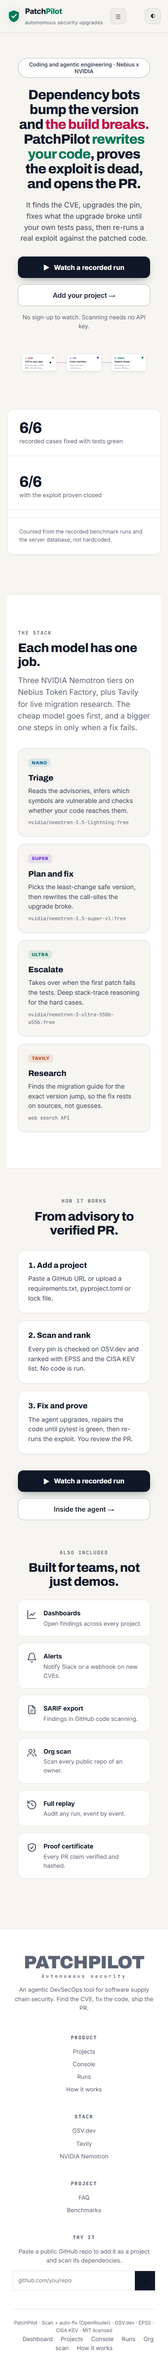
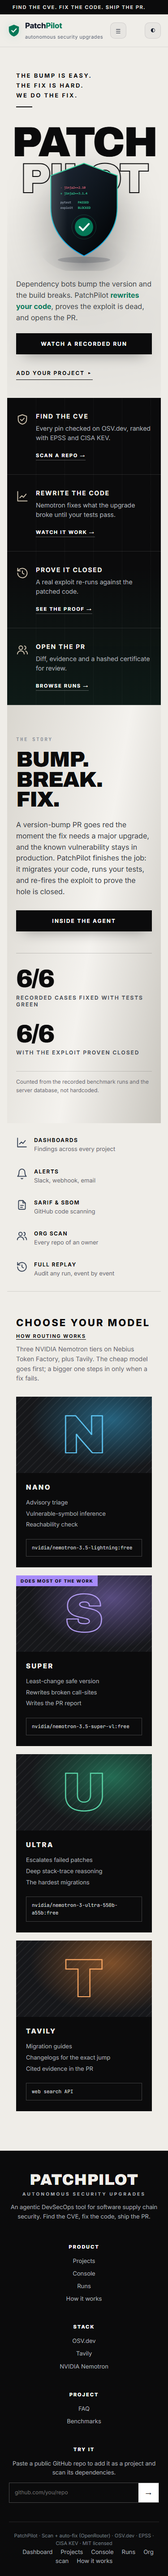
Landing: cinematic editorial redesign (giant wordmark with shield emblem, black feature band, Bump/Break/Fix story with live numbers, perks strip, model tiers as editions, black footer)

diff --git a/web/landing.css b/web/landing.css
@@ -1,97 +1,126 @@
-/* Landing: premium light layout. Colours come from tokens in style.css. */
-body { background: var(--bg); color: var(--text); }
+/* Landing: cinematic editorial layout. Monochrome ink on warm paper, black bands, one emerald accent. */
+body.lp { --ink: #0b0b0c; --paper: #efede8; --paper-2: #e4e1da; --fog: #8a8f98; background: var(--paper); color: var(--ink); }
 .bg-grid, .bg-glow { display: none; }
-.over { font: 700 11px var(--mono); letter-spacing: .16em; text-transform: uppercase; color: var(--muted); }
-.lp-wrap { max-width: 1120px; margin: 0 auto; padding: 88px 24px 0; }
-.lp-wrap h2, .band h2 { font: 800 clamp(28px, 3.6vw, 40px)/1.1 Archivo, Inter, sans-serif; letter-spacing: -.025em; text-transform: none; color: var(--text); margin: 10px 0 12px; }
-.sub { color: var(--muted); font-size: 17px; max-width: 62ch; margin: 0 0 32px; }
+.lp .topbar { background: color-mix(in srgb, var(--paper) 82%, transparent); }
+.over { font: 700 11px var(--mono); letter-spacing: .22em; text-transform: uppercase; color: var(--fog); }
 
-.lp-hero { position: relative; isolation: isolate; max-width: none; margin: 0 auto; padding: 88px 24px 32px; text-align: center; }
-.lp-hero::before { content: ""; position: absolute; inset: 0; z-index: -1; pointer-events: none;
-  background-image: linear-gradient(var(--grid) 1px, transparent 1px), linear-gradient(90deg, var(--grid) 1px, transparent 1px);
-  background-size: 44px 44px; -webkit-mask-image: radial-gradient(ellipse 70% 60% at 50% 30%, #000 30%, transparent 75%); mask-image: radial-gradient(ellipse 70% 60% at 50% 30%, #000 30%, transparent 75%); }
-.lp-hero::after { content: ""; position: absolute; inset: -40px 0 auto; height: 620px; z-index: -2; pointer-events: none;
-  background: radial-gradient(520px 280px at 30% 25%, var(--glow), transparent 70%), radial-gradient(480px 260px at 72% 20%, color-mix(in srgb, var(--super) 13%, transparent), transparent 70%); }
-.hero-in { max-width: 1040px; margin: 0 auto; }
-.eyebrow-pill { display: inline-flex; align-items: center; gap: 8px; font: 600 12px Inter; color: var(--text-2); padding: 6px 14px 6px 10px; border: 1px solid var(--line); border-radius: 999px; background: var(--surface-solid); box-shadow: 0 1px 2px rgba(16,24,40,.06); }
-.eyebrow-pill::before { content: ""; width: 8px; height: 8px; border-radius: 50%; background: var(--accent); box-shadow: 0 0 0 4px var(--glow); }
-.lp-hero h1 { font: 800 clamp(32px, 5vw, 60px)/1.04 Archivo, Inter, sans-serif; letter-spacing: -.035em; margin: 26px auto 22px; max-width: 18em; text-transform: none; text-wrap: balance; }
-.u-red { color: var(--bad); text-decoration: line-through; text-decoration-thickness: .06em; text-decoration-color: color-mix(in srgb, var(--bad) 45%, transparent); }
-.u-green { background: linear-gradient(90deg, var(--accent), var(--nano)); -webkit-background-clip: text; background-clip: text; color: transparent; }
-.lede { font-size: clamp(16px, 1.6vw, 19px); color: var(--text-2); max-width: 46em; margin: 0 auto 28px; }
-.cta-row { display: flex; gap: 14px; justify-content: center; align-items: center; flex-wrap: wrap; }
-.btn-primary { display: inline-flex; align-items: center; gap: 10px; background: var(--text); color: #fff; text-decoration: none; padding: 14px 24px; border-radius: 12px; font: 700 15px Inter; box-shadow: 0 1px 0 rgba(255,255,255,.2) inset, 0 8px 20px -8px rgba(16,24,40,.5); transition: transform .15s, box-shadow .15s, background .15s; }
-.btn-primary:hover { background: #1d2939; transform: translateY(-1px); box-shadow: 0 12px 24px -10px rgba(16,24,40,.55); }
-.btn-primary:active { transform: translateY(1px); }
-.btn-quiet { color: var(--text); text-decoration: none; font: 600 15px Inter; padding: 14px 18px; border-radius: 12px; border: 1px solid var(--line-strong); background: var(--surface-solid); transition: border-color .15s, transform .15s; }
-.btn-quiet:hover { border-color: var(--text); transform: translateY(-1px); }
-.btn-primary:focus-visible, .btn-quiet:focus-visible, .grid6 a:focus-visible { outline: 3px solid var(--info); outline-offset: 3px; }
-.fine { color: var(--muted); font-size: 13px; margin: 14px 0 0; }
-.hero-vis { display: block; width: 100%; max-width: 960px; height: auto; margin: 40px auto 0; }
+.ribbon { display: flex; justify-content: space-between; gap: 16px; background: var(--ink); color: #e7e5e0; font: 600 11px Inter; letter-spacing: .14em; text-transform: uppercase; padding: 9px 28px; }
 
-.stats { max-width: 1072px; margin: 48px auto 0; padding: 0 24px; display: grid; grid-template-columns: repeat(var(--n, 3), 1fr); gap: 16px; }
-.stats[hidden] { display: none; }
-.stats > div { position: relative; padding: 26px 28px; border: 1px solid var(--line); border-radius: 18px; background: var(--surface-solid); box-shadow: 0 1px 2px rgba(16,24,40,.04), 0 16px 32px -24px rgba(16,24,40,.25); overflow: hidden; }
-.stats > div::before { content: ""; position: absolute; inset: 0 0 auto; height: 3px; background: linear-gradient(90deg, var(--accent), var(--nano)); }
-.stats b { display: block; font: 800 44px/1 Archivo; letter-spacing: -.04em; margin-bottom: 8px; }
-.stats span { color: var(--muted); font-size: 14px; }
-.stats-note { grid-column: 1 / -1; text-align: center; color: var(--muted); font-size: 12px; }
-.stats-note:only-child, .stats > .stats-note { border: 0; background: none; box-shadow: none; padding: 4px 0 0; }
-.stats-note::before { display: none; }
+/* ---------- buttons ---------- */
+.cta-row { display: flex; gap: 28px; align-items: center; flex-wrap: wrap; }
+.cx-btn { display: inline-block; background: var(--ink); color: #fff; text-decoration: none; padding: 16px 28px; font: 700 12px Inter; letter-spacing: .16em; text-transform: uppercase; transition: background .2s, transform .2s, box-shadow .2s; box-shadow: 0 14px 30px -18px rgba(0,0,0,.7); }
+.cx-btn:hover { background: var(--accent); transform: translateY(-2px); }
+.cx-link { color: var(--ink); text-decoration: none; font: 700 12px Inter; letter-spacing: .16em; text-transform: uppercase; padding: 6px 0; border-bottom: 1.5px solid var(--ink); transition: color .2s, border-color .2s; }
+.cx-link:hover { color: var(--accent); border-color: var(--accent); }
+.cx-btn:focus-visible, .cx-link:focus-visible, .perks a:focus-visible, .band4 a:focus-visible { outline: 3px solid var(--info); outline-offset: 4px; }
 
-.band { margin-top: 88px; background: var(--surface-solid); border-block: 1px solid var(--line); padding: 72px 0 80px; }
-.band .lp-wrap { padding-top: 0; }
-.tiers { display: grid; grid-template-columns: repeat(4, 1fr); gap: 16px; }
-.lp-tier { --t: var(--accent); position: relative; overflow: hidden; background: var(--surface-solid); border: 1px solid var(--line); border-radius: 18px; padding: 26px 22px 22px; display: flex; flex-direction: column; gap: 8px; box-shadow: 0 1px 2px rgba(16,24,40,.04); transition: transform .2s, box-shadow .2s, border-color .2s; }
-.lp-tier::before { content: ""; position: absolute; inset: 0 0 auto; height: 3px; background: var(--t); }
-.lp-tier::after { content: ""; position: absolute; width: 160px; height: 160px; right: -60px; top: -70px; border-radius: 50%; background: radial-gradient(circle, color-mix(in srgb, var(--t) 14%, transparent), transparent 70%); pointer-events: none; }
-.lp-tier:nth-child(1) { --t: var(--nano); } .lp-tier:nth-child(2) { --t: var(--super); } .lp-tier:nth-child(3) { --t: var(--ultra); } .lp-tier:nth-child(4) { --t: var(--tavily); }
-.lp-tier:hover { border-color: color-mix(in srgb, var(--t) 40%, var(--line)); }
-.lp-tier code { margin-top: 10px; padding: 8px 10px; border-radius: 8px; background: var(--surface-2); }
-.lp-tier:hover { transform: translateY(-2px); box-shadow: 0 14px 30px -16px rgba(16,24,40,.25); }
-.lp-tier h3 { margin: 6px 0 0; font: 800 18px Archivo; letter-spacing: -.01em; }
-.lp-tier p { margin: 0; color: var(--text-2); font-size: 14px; flex: 1; }
-.lp-tier code { font-size: 11px; color: var(--muted); overflow-wrap: anywhere; }
-.lp-tier .chip { align-self: flex-start; }
+/* ---------- hero: giant wordmark with the emblem cutting through it ---------- */
+.cx-hero { position: relative; isolation: isolate; overflow: hidden; padding: 56px 40px 56px; min-height: min(92vh, 860px); display: flex; flex-direction: column; justify-content: space-between;
+  background: radial-gradient(900px 420px at 50% 78%, rgba(0,0,0,.07), transparent 70%), var(--paper); }
+.cx-hero-tag { margin: 0; font: 700 13px Inter; letter-spacing: .2em; text-transform: uppercase; line-height: 1.7; position: relative; z-index: 3; }
+.cx-hero-tag::after { content: ""; display: block; width: 36px; height: 2px; background: var(--ink); margin-top: 14px; }
+.wordmark { margin: 0; display: flex; justify-content: center; gap: .04em; font: 900 clamp(64px, 15.2vw, 236px)/.82 Archivo, Inter, sans-serif; letter-spacing: -.045em; text-transform: uppercase; color: var(--ink); position: relative; z-index: 1; user-select: none; }
+.wordmark span:last-child { -webkit-text-stroke: 2px var(--ink); color: transparent; }
+.emblem { position: absolute; left: 50%; top: 50%; width: clamp(180px, 25vw, 380px); height: auto; transform: translate(-50%, -46%); z-index: 2; filter: drop-shadow(0 40px 50px rgba(0,0,0,.35)); animation: float 7s ease-in-out infinite; }
+@keyframes float { 50% { transform: translate(-50%, -49%); } }
+.cx-hero-foot { display: flex; justify-content: space-between; align-items: flex-end; gap: 32px; position: relative; z-index: 3; }
+.cx-hero-line { max-width: 34em; margin: 0 0 22px; font-size: 16px; color: #3b3f46; }
+.cx-hero-line b { color: var(--accent); }
+.cx-hero-side { margin: 0; text-align: right; font: 700 13px Inter; letter-spacing: .2em; text-transform: uppercase; line-height: 1.7; }
+.cx-hero-side::after { content: ""; display: block; width: 36px; height: 2px; background: var(--ink); margin: 14px 0 0 auto; }
 
-.steps3 { list-style: none; margin: 28px 0 36px; padding: 0; display: grid; grid-template-columns: repeat(3, 1fr); gap: 16px; text-align: left; }
-.steps3 { counter-reset: s; }
-.steps3 li { counter-increment: s; position: relative; border: 1px solid var(--line); border-radius: 18px; padding: 64px 24px 24px; background: var(--surface-solid); box-shadow: 0 1px 2px rgba(16,24,40,.04); }
-.steps3 li::before { content: counter(s); position: absolute; top: 22px; left: 24px; width: 30px; height: 30px; border-radius: 10px; display: grid; place-items: center; font: 800 14px Archivo; color: var(--accent-ink); background: linear-gradient(135deg, var(--accent), var(--nano)); box-shadow: 0 6px 14px -6px var(--accent); }
-.steps3 b { font: 800 17px Archivo; } .steps3 p { color: var(--text-2); margin: 8px 0 0; }
-.how3 { text-align: center; }
+/* ---------- black band, four columns ---------- */
+.band4 { display: grid; grid-template-columns: repeat(4, 1fr); background: var(--ink); color: #f1efea;
+  background-image: linear-gradient(180deg, transparent 55%, rgba(52,211,153,.08)), repeating-linear-gradient(90deg, rgba(255,255,255,.035) 0 1px, transparent 1px 64px); }
+.band4 article { display: flex; gap: 16px; padding: 44px 32px 52px; border-right: 1px solid rgba(255,255,255,.12); transition: background .25s; }
+.band4 article:last-child { border-right: 0; }
+.band4 article:hover { background: rgba(255,255,255,.04); }
+.band4 img { filter: invert(1); flex: none; margin-top: 2px; }
+.band4 h3 { margin: 0 0 8px; font: 700 14px Inter; letter-spacing: .12em; text-transform: uppercase; }
+.band4 p { margin: 0 0 16px; color: #a9adb4; font-size: 14px; }
+.band4 a { color: #fff; font: 700 11px Inter; letter-spacing: .16em; text-transform: uppercase; text-decoration: none; border-bottom: 1px solid rgba(255,255,255,.3); padding-bottom: 3px; }
+.band4 a:hover { color: #34d399; border-color: #34d399; }
 
-.more { padding-bottom: 96px; }
-.grid6 { display: grid; grid-template-columns: repeat(3, 1fr); gap: 14px; margin-top: 24px; text-align: left; }
-.grid6 a { display: grid; grid-template-columns: 24px 1fr; gap: 2px 14px; align-items: start; padding: 18px; border: 1px solid var(--line); border-radius: 14px; background: var(--surface-solid); text-decoration: none; color: var(--text); transition: border-color .15s, transform .15s, box-shadow .15s; }
-.grid6 a:hover { border-color: var(--line-strong); transform: translateY(-1px); box-shadow: 0 10px 24px -16px rgba(16,24,40,.3); }
-.grid6 img { grid-row: span 2; margin-top: 2px; }
-.grid6 span { color: var(--muted); font-size: 13px; }
-.more { text-align: center; }
+/* ---------- story: stacked words, real numbers ---------- */
+.story { display: grid; grid-template-columns: 1.1fr 1fr; align-items: center; gap: 48px; padding: 96px 56px; background: linear-gradient(100deg, #d9d6cf, #f4f2ee 55%, #c9c6bf); }
+.story h2 { margin: 14px 0 22px; font: 900 clamp(48px, 7vw, 104px)/.92 Archivo, Inter, sans-serif; letter-spacing: -.035em; text-transform: uppercase; color: var(--ink); }
+.story p { max-width: 36em; color: #33373d; font-size: 16px; margin: 0 0 30px; }
+.story-stats { border-left: 1px solid rgba(0,0,0,.18); padding-left: 48px; }
+#stats { display: grid; grid-template-columns: 1fr; gap: 34px; }
+#stats[hidden] { display: none; }
+#stats > div b { display: block; font: 900 clamp(56px, 7vw, 96px)/.9 Archivo; letter-spacing: -.05em; color: var(--ink); }
+#stats > div span { display: block; margin-top: 8px; font: 700 12px Inter; letter-spacing: .16em; text-transform: uppercase; color: #4a4f57; }
+.stats-note { font-size: 12px; color: #5f646c; border-top: 1px solid rgba(0,0,0,.15); padding-top: 14px; }
+.stats-empty { margin: 0; color: #5f646c; font: 600 13px Inter; letter-spacing: .08em; text-transform: uppercase; }
+.stats:not([hidden]) + .stats-empty { display: none; }
 
-.bigfoot { background: var(--surface-solid); border-top: 1px solid var(--line); padding: 56px 28px 26px; display: grid; grid-template-columns: 1.4fr repeat(3, 1fr) 1.4fr; gap: 30px; }
-.bigfoot .logo { font: 800 22px Archivo; letter-spacing: -.02em; line-height: 1; text-transform: none; }
-.bigfoot .logo small { display: block; font: 600 11px Inter; letter-spacing: .02em; text-transform: none; margin-top: 6px; color: var(--muted); }
-.bigfoot form { border-radius: 10px; overflow: hidden; background: var(--bg); }
-.bigfoot button { color: #fff; }
-.bigfoot p { color: var(--muted); font-size: 13px; }
-.bigfoot h4 { font: 800 11px var(--mono); letter-spacing: .16em; text-transform: uppercase; margin: 6px 0 14px; }
-.bigfoot a { display: block; color: var(--muted); text-decoration: none; font-size: 13px; margin-bottom: 8px; } .bigfoot a:hover { color: var(--text); }
-.bigfoot form { display: flex; border: 1px solid var(--line); }
-.bigfoot input { background: transparent; border: 0; border-radius: 0; color: var(--text); padding: 12px; }
-.bigfoot button { background: var(--text); border: 0; padding: 0 16px; cursor: pointer; font-weight: 800; }
-.copy a { display: inline; margin: 0 0 0 18px; } .copy nav { display: inline; }
-#typed .caret { display: inline-block; width: 8px; height: 14px; background: var(--accent); }
-.copy { grid-column: 1 / -1; text-align: center; color: var(--muted); font-size: 11px; border-top: 1px solid var(--line); padding-top: 22px; margin-top: 10px; }
+/* ---------- perks strip ---------- */
+.perks { display: grid; grid-template-columns: repeat(5, 1fr); padding: 34px 40px; border-bottom: 1px solid rgba(0,0,0,.12); }
+.perks a { display: grid; grid-template-columns: 26px 1fr; gap: 2px 14px; padding: 6px 22px; text-decoration: none; color: var(--ink); border-right: 1px solid rgba(0,0,0,.12); }
+.perks a:last-child { border-right: 0; }
+.perks img { grid-row: span 2; }
+.perks b { font: 700 12px Inter; letter-spacing: .12em; text-transform: uppercase; }
+.perks span { color: #5f646c; font-size: 13px; }
+.perks a:hover b { color: var(--accent); }
 
-@media (max-width: 1000px) {
-  .tiers { grid-template-columns: repeat(2, 1fr); }
+/* ---------- tiers as "editions" ---------- */
+.tiers-sec { padding: 72px 40px 96px; max-width: 1360px; margin: 0 auto; }
+.tiers-head { display: flex; justify-content: space-between; align-items: baseline; }
+.tiers-head h2 { margin: 0; font: 800 22px Inter; letter-spacing: .14em; text-transform: uppercase; color: var(--ink); }
+.tiers-head a { color: var(--ink); font: 700 11px Inter; letter-spacing: .16em; text-transform: uppercase; text-decoration: none; border-bottom: 1px solid; }
+.tiers-sub { color: #5f646c; margin: 10px 0 30px; max-width: 60em; }
+.cx-tiers { display: grid; grid-template-columns: repeat(4, 1fr); gap: 18px; }
+.ed { --t: #34d399; background: var(--ink); color: #f1efea; display: flex; flex-direction: column; overflow: hidden; transition: transform .3s, box-shadow .3s; }
+.ed:hover { transform: translateY(-6px); box-shadow: 0 30px 50px -28px rgba(0,0,0,.8); }
+.ed.nano { --t: #38bdf8; } .ed.super { --t: #a78bfa; } .ed.ultra { --t: #34d399; } .ed.tavily { --t: #fb923c; }
+.ed-art { position: relative; height: 170px; display: grid; place-items: center; overflow: hidden;
+  background: radial-gradient(260px 160px at 70% 30%, color-mix(in srgb, var(--t) 45%, transparent), transparent 70%), repeating-linear-gradient(135deg, rgba(255,255,255,.05) 0 2px, transparent 2px 12px), #16171a; }
+.ed-art span { font: 900 120px/1 Archivo; color: transparent; -webkit-text-stroke: 2px color-mix(in srgb, var(--t) 80%, #fff); transition: transform .4s; }
+.ed:hover .ed-art span { transform: scale(1.08) rotate(-3deg); }
+.ed-art em { position: absolute; top: 0; left: 0; background: var(--t); color: #0b0b0c; font: 800 10px Inter; font-style: normal; letter-spacing: .14em; text-transform: uppercase; padding: 6px 10px; }
+.ed-body { padding: 22px 22px 24px; display: flex; flex-direction: column; flex: 1; }
+.ed h3 { margin: 0 0 12px; font: 800 15px Inter; letter-spacing: .16em; text-transform: uppercase; }
+.ed ul { list-style: none; margin: 0 0 20px; padding: 0; color: #a9adb4; font-size: 13px; line-height: 1.9; flex: 1; }
+.ed code { display: block; font-size: 11px; color: #d6d8dc; border: 1px solid rgba(255,255,255,.22); padding: 10px 12px; overflow-wrap: anywhere; }
+
+/* ---------- footer ---------- */
+.bigfoot { background: var(--ink); color: #f1efea; padding: 64px 40px 28px; display: grid; grid-template-columns: 1.4fr repeat(3, 1fr) 1.5fr; gap: 32px; }
+.bigfoot .logo { font: 900 34px/1 Archivo; letter-spacing: .02em; }
+.bigfoot .logo small { display: block; font: 700 10px Inter; letter-spacing: .32em; text-transform: uppercase; margin-top: 8px; color: #a9adb4; }
+.bigfoot p { color: #a9adb4; font-size: 13px; }
+.bigfoot h4 { font: 800 11px Inter; letter-spacing: .18em; text-transform: uppercase; margin: 6px 0 14px; color: #fff; }
+.bigfoot a { display: block; color: #a9adb4; text-decoration: none; font-size: 13px; margin-bottom: 8px; } .bigfoot a:hover { color: #fff; }
+.bigfoot form { display: flex; border: 1px solid rgba(255,255,255,.25); }
+.bigfoot input { flex: 1; min-width: 0; background: transparent; border: 0; border-radius: 0; color: #fff; padding: 12px; }
+.bigfoot button { background: #fff; color: var(--ink); border: 0; padding: 0 16px; cursor: pointer; font-weight: 800; }
+.copy { grid-column: 1 / -1; text-align: center; color: #7d828a; font-size: 11px; border-top: 1px solid rgba(255,255,255,.12); padding-top: 22px; margin-top: 10px; }
+.copy a { display: inline; margin: 0 0 0 18px; color: #a9adb4; } .copy nav { display: inline; }
+
+/* ---------- responsive ---------- */
+@media (max-width: 1100px) {
+  .band4, .cx-tiers { grid-template-columns: repeat(2, 1fr); }
+  .band4 article:nth-child(2) { border-right: 0; } .band4 article:nth-child(-n+2) { border-bottom: 1px solid rgba(255,255,255,.12); }
+  .perks { grid-template-columns: repeat(3, 1fr); row-gap: 20px; }
   .bigfoot { grid-template-columns: 1fr 1fr; }
 }
-@media (max-width: 640px) {
-  .lp-hero { padding-top: 40px; } .lp-wrap { padding-top: 60px; } .hero-vis { display: none; }
-  .tiers, .steps3, .grid6, .bigfoot { grid-template-columns: 1fr; }
-  .stats { grid-template-columns: 1fr; } .stats > div { border-right: 0; border-bottom: 1px solid var(--line); }
-  .btn-primary, .btn-quiet { width: 100%; justify-content: center; }
+@media (max-width: 720px) {
+  .ribbon span:last-child { display: none; }
+  .cx-hero { padding: 36px 20px 40px; min-height: 0; gap: 40px; }
+  .wordmark { flex-direction: column; align-items: center; font-size: 25vw; }
+  .emblem { width: 46vw; top: 47%; }
+  .cx-hero-foot { flex-direction: column; align-items: stretch; }
+  .cx-hero-side { display: none; }
+  .band4, .cx-tiers, .perks, .bigfoot { grid-template-columns: 1fr; }
+  .band4 article { border-right: 0; border-bottom: 1px solid rgba(255,255,255,.12); padding: 32px 20px; }
+  .story { grid-template-columns: 1fr; padding: 64px 20px; }
+  .story-stats { border-left: 0; padding-left: 0; border-top: 1px solid rgba(0,0,0,.18); padding-top: 32px; }
+  .perks { padding: 24px 20px; } .perks a { border-right: 0; padding: 6px 0; }
+  .tiers-sec { padding: 56px 20px 72px; }
+  .bigfoot { padding: 48px 20px 24px; }
+  .cx-btn { width: 100%; text-align: center; }
 }
-@media (prefers-reduced-motion: reduce) { .lp-tier, .btn-primary, .btn-quiet, .grid6 a { transition: none; } }
+@media (prefers-reduced-motion: reduce) { .emblem { animation: none; } .ed, .ed-art span, .cx-btn { transition: none; } }
+@media (max-width: 720px) {
+  .emblem { position: relative; left: auto; top: auto; transform: none; width: 52vw; margin: -34vw auto -6vw; animation: none; }
+  .tiers-head { flex-wrap: wrap; gap: 10px; }
+}

diff --git a/web/landing.html b/web/landing.html
@@ -9,73 +9,77 @@
 <meta property="og:description" content="Dependency bots bump the version and the build breaks. PatchPilot rewrites your code, proves the exploit is dead, and opens the PR.">
 <meta property="og:type" content="website">
 <meta name="twitter:card" content="summary">
-<meta name="theme-color" content="#f6f5f1">
+<meta name="theme-color" content="#efede8">
 <link rel="icon" type="image/svg+xml" href="/favicon.svg">
 <link rel="stylesheet" href="/static/style.css">
 <link rel="stylesheet" href="/static/site.css">
 <link rel="stylesheet" href="/static/landing.css">
 </head>
-<body>
+<body class="lp">
+<div class="ribbon"><span>Find the CVE. Fix the code. Ship the PR.</span><span>Nemotron on Nebius Token Factory · Tavily</span></div>
 <header class="topbar"></header>
 
 <main id="main">
-<section class="lp-hero">
-  <div class="hero-in">
-    <span class="eyebrow-pill">Coding and agentic engineering · Nebius x NVIDIA</span>
-    <h1>Dependency bots bump the version and <span class="u-red">the build breaks.</span><br>PatchPilot <span class="u-green">rewrites your code</span>, proves the exploit is dead, and opens the PR.</h1>
-    <p class="lede">It finds the CVE, upgrades the pin, fixes what the upgrade broke until your own tests pass, then re-runs a real exploit against the patched code.</p>
-    <div class="cta-row">
-      <a class="btn-primary" href="/console?demo=1"><span aria-hidden="true">▶</span> Watch a recorded run</a>
-      <a class="btn-quiet" href="/projects">Add your project <span aria-hidden="true">→</span></a>
+<section class="cx-hero" aria-labelledby="heroH">
+  <p class="cx-hero-tag">The bump is easy.<br>The fix is hard.<br>We do the fix.</p>
+  <h1 id="heroH" class="wordmark" aria-label="PatchPilot: dependency bots bump the version and the build breaks. PatchPilot rewrites your code, proves the exploit is dead, and opens the PR.">
+    <span aria-hidden="true">PATCH</span><span aria-hidden="true">PILOT</span>
+  </h1>
+  <img class="emblem" src="/static/hero-shield.svg" alt="" width="400" height="520">
+  <div class="cx-hero-foot">
+    <div>
+      <p class="cx-hero-line">Dependency bots bump the version and the build breaks. PatchPilot <b>rewrites your code</b>, proves the exploit is dead, and opens the PR.</p>
+      <div class="cta-row">
+        <a class="cx-btn" href="/console?demo=1">Watch a recorded run</a>
+        <a class="cx-link" href="/projects">Add your project <span aria-hidden="true">▸</span></a>
+      </div>
     </div>
-    <p class="fine">No sign-up to watch. Scanning needs no API key.</p>
-  </div>
-  <img class="hero-vis" src="/static/hero-pipeline.svg" alt="Find the CVE, fix the code until tests pass, prove the exploit is closed" width="960" height="230">
-</section>
-
-<section class="stats" id="stats" hidden aria-label="Measured results"></section>
-
-<section class="band" aria-labelledby="stackH">
-  <div class="lp-wrap">
-    <span class="over">The stack</span>
-    <h2 id="stackH">Each model has one job.</h2>
-    <p class="sub">Three NVIDIA Nemotron tiers on Nebius Token Factory, plus Tavily for live migration research. The cheap model goes first, and a bigger one steps in only when a fix fails.</p>
-    <div class="tiers">
-      <article class="lp-tier"><span class="chip nano">Nano</span><h3>Triage</h3><p>Reads the advisories, infers which symbols are vulnerable and checks whether your code reaches them.</p><code class="ed-model" data-tier="nano">model: loading</code></article>
-      <article class="lp-tier"><span class="chip super">Super</span><h3>Plan and fix</h3><p>Picks the least-change safe version, then rewrites the call-sites the upgrade broke.</p><code class="ed-model" data-tier="super">model: loading</code></article>
-      <article class="lp-tier"><span class="chip ultra">Ultra</span><h3>Escalate</h3><p>Takes over when the first patch fails the tests. Deep stack-trace reasoning for the hard cases.</p><code class="ed-model" data-tier="ultra">model: loading</code></article>
-      <article class="lp-tier"><span class="chip tavily">Tavily</span><h3>Research</h3><p>Finds the migration guide for the exact version jump, so the fix rests on sources, not guesses.</p><code>web search API</code></article>
-    </div>
+    <p class="cx-hero-side">Nebius × NVIDIA<br>Coding &amp; agentic<br>engineering</p>
   </div>
 </section>
 
-<section class="lp-wrap how3" aria-labelledby="howH">
-  <span class="over">How it works</span>
-  <h2 id="howH">From advisory to verified PR.</h2>
-  <ol class="steps3">
-    <li><b>Add a project</b><p>Paste a GitHub URL or upload a requirements.txt, pyproject.toml or lock file.</p></li>
-    <li><b>Scan and rank</b><p>Every pin is checked on OSV.dev and ranked with EPSS and the CISA KEV list. No code is run.</p></li>
-    <li><b>Fix and prove</b><p>The agent upgrades, repairs the code until pytest is green, then re-runs the exploit. You review the PR.</p></li>
-  </ol>
-  <div class="cta-row"><a class="btn-primary" href="/console?demo=1"><span aria-hidden="true">▶</span> Watch a recorded run</a><a class="btn-quiet" href="/how">Inside the agent <span aria-hidden="true">→</span></a></div>
+<section class="band4" aria-label="What the agent does">
+  <article><img src="/static/icons/shield.svg" alt="" width="28" height="28"><div><h3>Find the CVE</h3><p>Every pin checked on OSV.dev, ranked with EPSS and CISA KEV.</p><a href="/projects">Scan a repo →</a></div></article>
+  <article><img src="/static/icons/chart.svg" alt="" width="28" height="28"><div><h3>Rewrite the code</h3><p>Nemotron fixes what the upgrade broke until your tests pass.</p><a href="/console?demo=1">Watch it work →</a></div></article>
+  <article><img src="/static/icons/replay.svg" alt="" width="28" height="28"><div><h3>Prove it closed</h3><p>A real exploit re-runs against the patched code.</p><a href="/how">See the proof →</a></div></article>
+  <article><img src="/static/icons/users.svg" alt="" width="28" height="28"><div><h3>Open the PR</h3><p>Diff, evidence and a hashed certificate for review.</p><a href="/runs">Browse runs →</a></div></article>
 </section>
 
-<section class="lp-wrap more" aria-labelledby="moreH">
-  <span class="over">Also included</span>
-  <h2 id="moreH">Built for teams, not just demos.</h2>
-  <div class="grid6">
-    <a href="/dashboard"><img src="/static/icons/chart.svg" alt="" width="24" height="24"><b>Dashboards</b><span>Open findings across every project.</span></a>
-    <a href="/settings"><img src="/static/icons/bell.svg" alt="" width="24" height="24"><b>Alerts</b><span>Notify Slack or a webhook on new CVEs.</span></a>
-    <a href="/projects"><img src="/static/icons/sarif.svg" alt="" width="24" height="24"><b>SARIF export</b><span>Findings in GitHub code scanning.</span></a>
-    <a href="/org"><img src="/static/icons/users.svg" alt="" width="24" height="24"><b>Org scan</b><span>Scan every public repo of an owner.</span></a>
-    <a href="/runs"><img src="/static/icons/replay.svg" alt="" width="24" height="24"><b>Full replay</b><span>Audit any run, event by event.</span></a>
-    <a href="/how"><img src="/static/icons/shield.svg" alt="" width="24" height="24"><b>Proof certificate</b><span>Every PR claim verified and hashed.</span></a>
+<section class="story" aria-labelledby="storyH">
+  <div class="story-in">
+    <span class="over">The story</span>
+    <h2 id="storyH">Bump.<br>Break.<br>Fix.</h2>
+    <p>A version-bump PR goes red the moment the fix needs a major upgrade, and the known vulnerability stays in production. PatchPilot finishes the job: it migrates your code, runs your tests, and re-fires the exploit to prove the hole is closed.</p>
+    <a class="cx-btn" href="/how">Inside the agent</a>
+  </div>
+  <div class="story-stats">
+    <section class="stats" id="stats" hidden aria-label="Measured results"></section>
+    <p class="stats-empty">Results appear here once recorded runs exist on this server.</p>
+  </div>
+</section>
+
+<section class="perks" aria-label="Also included">
+  <a href="/dashboard"><img src="/static/icons/chart.svg" alt="" width="26" height="26"><b>Dashboards</b><span>Findings across every project</span></a>
+  <a href="/settings"><img src="/static/icons/bell.svg" alt="" width="26" height="26"><b>Alerts</b><span>Slack, webhook, email</span></a>
+  <a href="/projects"><img src="/static/icons/sarif.svg" alt="" width="26" height="26"><b>SARIF &amp; SBOM</b><span>GitHub code scanning</span></a>
+  <a href="/org"><img src="/static/icons/users.svg" alt="" width="26" height="26"><b>Org scan</b><span>Every repo of an owner</span></a>
+  <a href="/runs"><img src="/static/icons/replay.svg" alt="" width="26" height="26"><b>Full replay</b><span>Audit any run, event by event</span></a>
+</section>
+
+<section class="tiers-sec" aria-labelledby="stackH">
+  <div class="tiers-head"><h2 id="stackH">Choose your model</h2><a href="/how">How routing works</a></div>
+  <p class="tiers-sub">Three NVIDIA Nemotron tiers on Nebius Token Factory, plus Tavily. The cheap model goes first; a bigger one steps in only when a fix fails.</p>
+  <div class="cx-tiers">
+    <article class="ed nano"><div class="ed-art"><span>N</span></div><div class="ed-body"><h3>Nano</h3><ul><li>Advisory triage</li><li>Vulnerable-symbol inference</li><li>Reachability check</li></ul><code class="ed-model" data-tier="nano">model: loading</code></div></article>
+    <article class="ed super"><div class="ed-art"><em>Does most of the work</em><span>S</span></div><div class="ed-body"><h3>Super</h3><ul><li>Least-change safe version</li><li>Rewrites broken call-sites</li><li>Writes the PR report</li></ul><code class="ed-model" data-tier="super">model: loading</code></div></article>
+    <article class="ed ultra"><div class="ed-art"><span>U</span></div><div class="ed-body"><h3>Ultra</h3><ul><li>Escalates failed patches</li><li>Deep stack-trace reasoning</li><li>The hardest migrations</li></ul><code class="ed-model" data-tier="ultra">model: loading</code></div></article>
+    <article class="ed tavily"><div class="ed-art"><span>T</span></div><div class="ed-body"><h3>Tavily</h3><ul><li>Migration guides</li><li>Changelogs for the exact jump</li><li>Cited evidence in the PR</li></ul><code>web search API</code></div></article>
   </div>
 </section>
 </main>
 
 <footer class="bigfoot">
-  <div><div class="logo">PatchPilot<small>Autonomous security upgrades</small></div><p>An agentic DevSecOps tool for software supply chain security. Find the CVE, fix the code, ship the PR.</p></div>
+  <div><div class="logo">PATCHPILOT<small>Autonomous security upgrades</small></div><p>An agentic DevSecOps tool for software supply chain security. Find the CVE, fix the code, ship the PR.</p></div>
   <div><h4>Product</h4><a href="/projects">Projects</a><a href="/console">Console</a><a href="/runs">Runs</a><a href="/how">How it works</a></div>
   <div><h4>Stack</h4><a href="https://osv.dev" target="_blank" rel="noopener">OSV.dev</a><a href="https://tavily.com" target="_blank" rel="noopener">Tavily</a><a href="https://build.nvidia.com" target="_blank" rel="noopener">NVIDIA Nemotron</a></div>
   <div><h4>Project</h4><a href="/how">FAQ</a><a href="/runs">Benchmarks</a></div>
